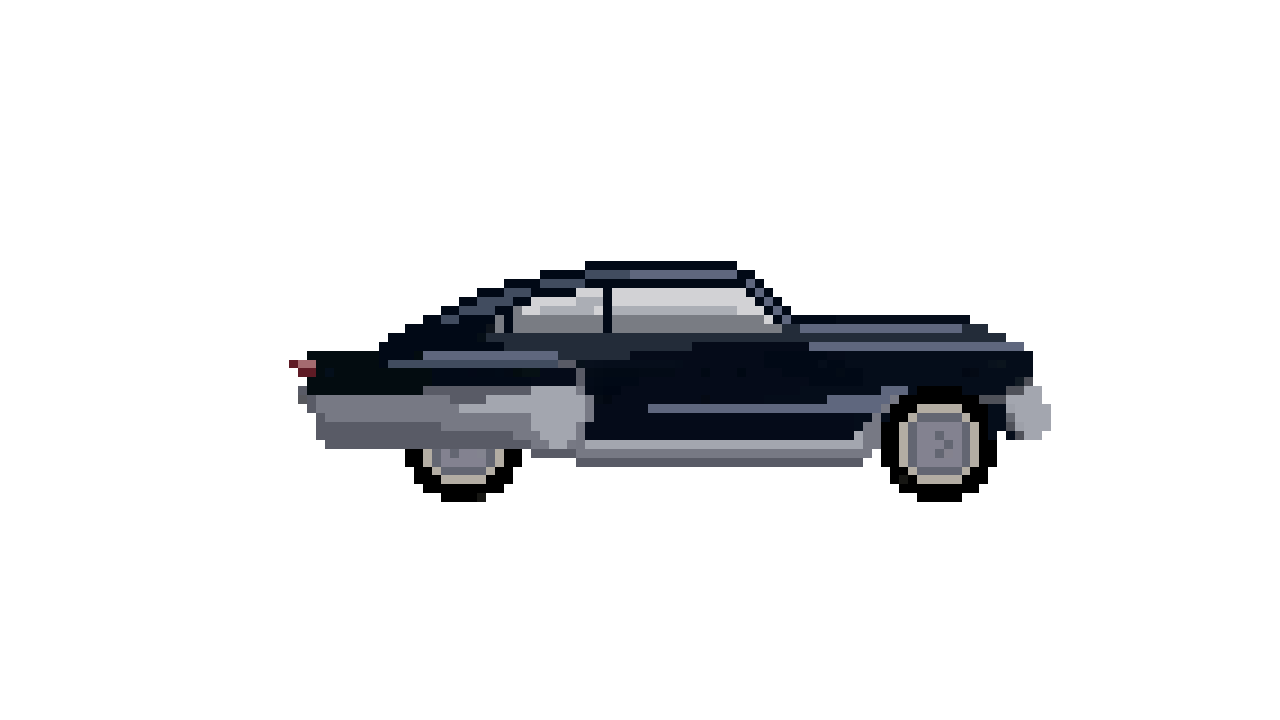
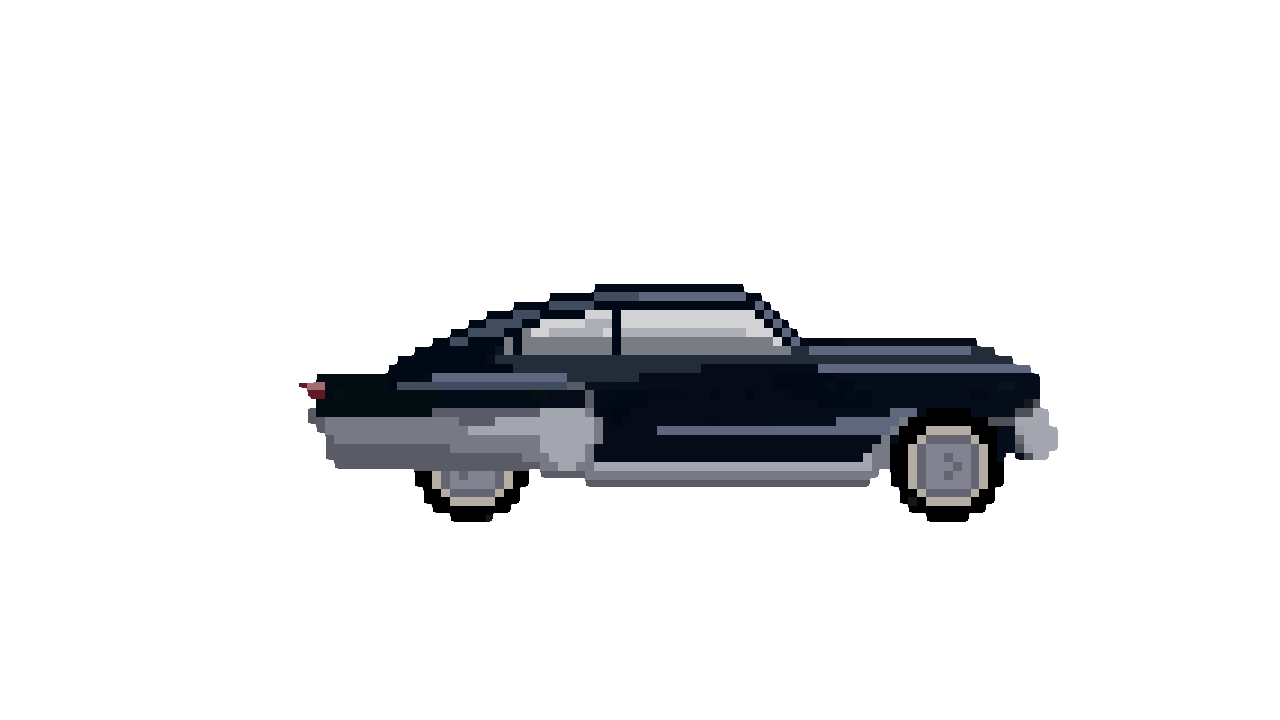
added car item and map picture

Changed region(s): [[0.2188, 0.3361, 0.8438, 0.7333]]

diff --git a/GUI2/gamescreenview.cpp b/GUI2/gamescreenview.cpp
@@ -1,18 +1,22 @@
 #include "gamescreenview.h"
-#include "iostream"
 
 
 GameScreenView::GameScreenView(QWidget *parent)
 {
-
-        pixmapCar = new QGraphicsPixmapItem(QPixmap::fromImage(QImage(":/resource/img/Car.png")));
-        pixmapCar->setScale(0.3);
-
+        car = new CarItem();
         scene = new QGraphicsScene();
-        scene->setSceneRect(this->width()/2, 0, this->width(), this->height());
+        sceneLenght = 6000;
+
+        sceneBackground.load(":/resource/img/GamePic.jpg");
+
+        scene->addItem(car);
+        scene->setSceneRect(0, 0, sceneLenght, getDesktopHeight());
+
+        scene->setBackgroundBrush(sceneBackground.scaledToHeight(scene->height()));
+
+
         this->setScene(scene);
-        std::cout << pos().x() << ", " << pos().y() << std::endl;
-        scene->addItem(pixmapCar);
+
 
 }
 
@@ -20,16 +24,32 @@ void GameScreenView::keyPressEvent(QKeyEvent *keyEvent){
 
     switch (keyEvent->key()) {
         case Qt::Key_Down:
-            pixmapCar->moveBy(0, 10);
+            car->moveBy(0, car->getMovementSpeed());
             break;
         case Qt::Key_Up:
-            pixmapCar->moveBy(0, -10);
+            car->moveBy(0, -car->getMovementSpeed());
             break;
         default:
             break;
     }
 }
 
+int GameScreenView::getDesktopHeight(){
+    QScreen *screen = QGuiApplication::primaryScreen();
+    QRect  screenGeometry = screen->geometry();
+    int height = screenGeometry.height();
+    return height;
+}
+
+void GameScreenView::setSceneLength(int len)
+{
+    sceneLenght = len;
+}
+
+int GameScreenView::getSceneLength()
+{
+    return sceneLenght;
+}
 
 GameScreenView::~GameScreenView(){
 

diff --git a/GUI2/gamescreenview.h b/GUI2/gamescreenview.h
@@ -6,17 +6,25 @@
 #include <QGraphicsScene>
 #include <QGraphicsItem>
 #include <QKeyEvent>
+#include <QPixmap>
+#include <QApplication>
+#include "caritem.h"
 
 class GameScreenView: public QGraphicsView
 {
     Q_OBJECT
 public:
     explicit GameScreenView(QWidget *parent = 0);
+    int getDesktopHeight();
+    void setSceneLength(int len);
+    int getSceneLength();
     ~GameScreenView();
 
 private:
     QGraphicsScene *scene;
-    QGraphicsPixmapItem *pixmapCar;
+    CarItem *car;
+    QPixmap sceneBackground;
+    int sceneLenght;
     void keyPressEvent(QKeyEvent *keyEvent);
 };
 

diff --git a/GUI2/caritem.h b/GUI2/caritem.h
@@ -1,0 +1,20 @@
+#ifndef CARITEM_H
+#define CARITEM_H
+
+#include <QGraphicsItem>
+#include <QPixmap>
+#include <QtCore>
+#include <QtGui>
+
+class CarItem : public QGraphicsPixmapItem
+{
+public:
+    CarItem();
+    void setMovementSpeed(double speed);
+    double getMovementSpeed();
+
+private:
+    double movementSpeed;
+};
+
+#endif // CARITEM_H

diff --git a/GUI2/caritem.cpp b/GUI2/caritem.cpp
@@ -1,0 +1,22 @@
+#include "caritem.h"
+
+CarItem::CarItem()
+{
+    movementSpeed = 10;
+
+    setPixmap(QPixmap::fromImage(QImage(":/resource/img/Car.png")));
+    setScale(0.25);
+}
+
+
+void CarItem::setMovementSpeed(double speed)
+{
+    movementSpeed = speed;
+}
+
+double CarItem::getMovementSpeed()
+{
+    return movementSpeed;
+}
+
+
